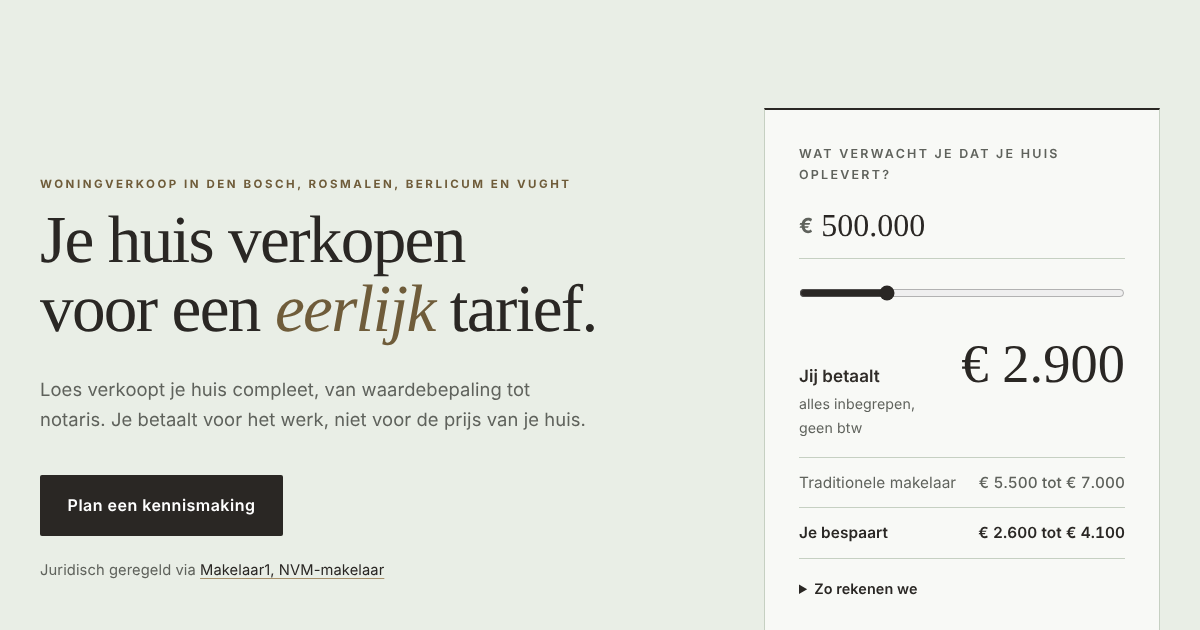
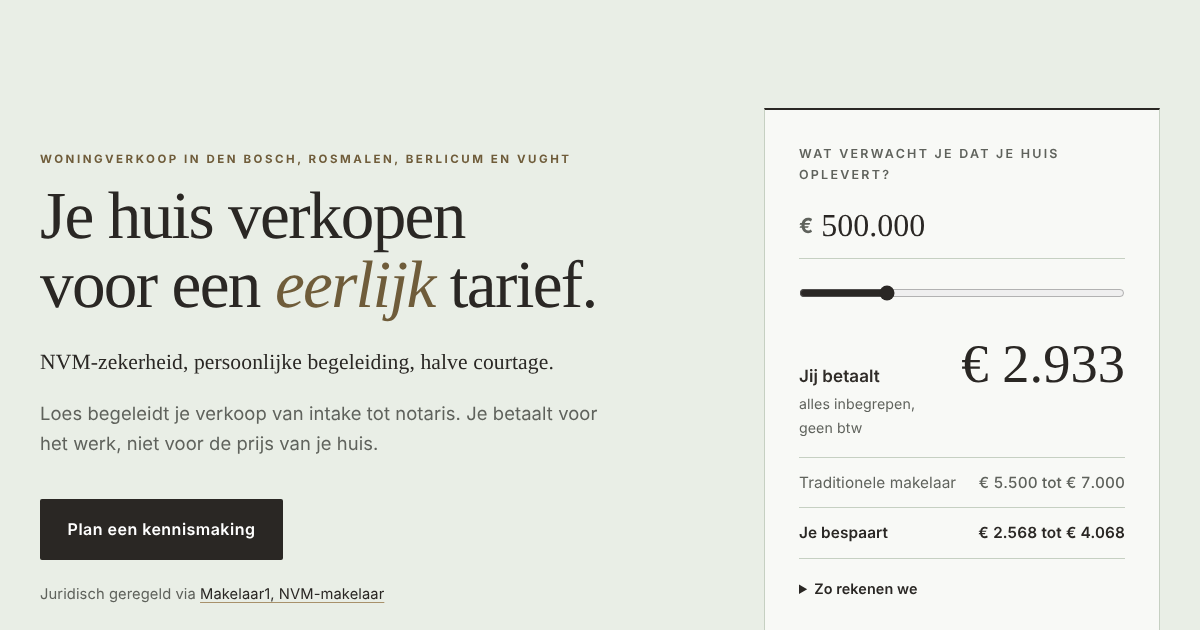
Kernboodschap: NVM-zekerheid, persoonlijke begeleiding, halve courtage

Changed region(s): [[0.0308, 0.2413, 0.4933, 0.7238], [0.0308, 0.754, 0.3392, 0.9651], [0.8942, 0.5429, 0.9558, 0.6032]]

diff --git a/index.html b/index.html
@@ -4,18 +4,18 @@
 <meta charset="utf-8">
 <meta name="viewport" content="width=device-width, initial-scale=1">
 <title>Huis verkopen in Den Bosch, Rosmalen, Berlicum en Vught | Mevrouw geen Makelaar</title>
-<meta name="description" content="Je huis verkopen in Den Bosch, Rosmalen, Berlicum en Vught zonder dure makelaar. Complete woningverkoop voor een eerlijk tarief. Bereken direct wat het jou kost.">
+<meta name="description" content="NVM-zekerheid, persoonlijke begeleiding, halve courtage. Je huis verkopen in Den Bosch, Rosmalen, Berlicum en Vught voor een eerlijk tarief. Bereken direct wat het jou kost.">
 <link rel="canonical" href="https://www.mevrouw-geen-makelaar.nl/">
 <meta property="og:type" content="website">
 <meta property="og:locale" content="nl_NL">
 <meta property="og:site_name" content="Mevrouw geen Makelaar">
 <meta property="og:title" content="Huis verkopen in Den Bosch, Rosmalen, Berlicum en Vught | Mevrouw geen Makelaar">
-<meta property="og:description" content="Je huis verkopen in Den Bosch, Rosmalen, Berlicum en Vught zonder dure makelaar. Complete woningverkoop voor een eerlijk tarief. Bereken direct wat het jou kost.">
+<meta property="og:description" content="NVM-zekerheid, persoonlijke begeleiding, halve courtage. Je huis verkopen in Den Bosch, Rosmalen, Berlicum en Vught voor een eerlijk tarief. Bereken direct wat het jou kost.">
 <meta property="og:url" content="https://www.mevrouw-geen-makelaar.nl/">
 <meta property="og:image" content="https://www.mevrouw-geen-makelaar.nl/og-image.png">
 <meta name="theme-color" content="#2a2724">
 <link rel="icon" href="/favicon.svg" type="image/svg+xml">
-<link rel="stylesheet" href="/styles.css?v=cce13743">
+<link rel="stylesheet" href="/styles.css?v=1b1984d0">
 <script type="application/ld+json">{"@context":"https://schema.org","@type":"LocalBusiness","name":"Mevrouw geen Makelaar","url":"https://www.mevrouw-geen-makelaar.nl","email":"loes@salesday.nl","description":"Persoonlijke woningverkoop in Den Bosch, Rosmalen, Berlicum en Vught tegen een transparante, lage prijs: (1% van de verkoopprijs min €865 kosten) gedeeld door 2, plus €865 vaste kosten.","areaServed":[{"@type":"City","name":"'s-Hertogenbosch"},{"@type":"City","name":"Rosmalen"},{"@type":"City","name":"Berlicum"},{"@type":"City","name":"Vught"}],"address":{"@type":"PostalAddress","addressLocality":"Rosmalen","addressCountry":"NL"},"founder":{"@type":"Person","name":"Loes"},"priceRange":"€"}</script>
 <script type="application/ld+json">{"@context":"https://schema.org","@type":"FAQPage","mainEntity":[{"@type":"Question","name":"Is Loes een makelaar?","acceptedAnswer":{"@type":"Answer","text":"Nee. Loes begeleidt de verkoop persoonlijk. Het makelaarsschap, de Funda-plaatsing en de koopovereenkomst lopen via Makelaar1, een NVM-makelaar uit Tilburg."}},{"@type":"Question","name":"Wat betaal ik?","acceptedAnswer":{"@type":"Answer","text":"De helft van (1% van de verkoopprijs min €865), plus €865 vaste kosten. Bij €500.000 is dat €2.933, alles inbegrepen. Er komt geen btw bij."}},{"@type":"Question","name":"Wat zit er in de vaste kosten?","acceptedAnswer":{"@type":"Answer","text":"De Funda-plaatsing via Makelaar1, de fotograaf en de brochures. Niet inbegrepen: energielabel, keuringen en notariskosten."}},{"@type":"Question","name":"Wie stelt de koopovereenkomst op?","acceptedAnswer":{"@type":"Answer","text":"Makelaar1, als NVM-makelaar. Zo is de juridische kant goed geregeld."}},{"@type":"Question","name":"Wie doet de bezichtigingen?","acceptedAnswer":{"@type":"Answer","text":"Loes, persoonlijk. Ook bij de onderhandeling is zij je aanspreekpunt; jij beslist over elk bod."}},{"@type":"Question","name":"Wat als ik na de intake toch niet wil verkopen?","acceptedAnswer":{"@type":"Answer","text":"Dat kan altijd. Na de intake is de opdracht gestart, dus vergoed je de gemaakte uren à [uurtarief], met een minimum van €300, plus al gemaakte kosten zoals fotograaf of drukwerk."}},{"@type":"Question","name":"In welke regio werkt Loes?","acceptedAnswer":{"@type":"Answer","text":"Den Bosch, Rosmalen, Berlicum, Vught en directe omgeving."}}]}</script>
 </head>
@@ -41,7 +41,8 @@
     <div class="hero-ed-text">
       <span class="eyebrow">Woningverkoop in Den Bosch, Rosmalen, Berlicum en Vught</span>
       <h1>Je huis verkopen<br>voor een <em>eerlijk</em> tarief.</h1>
-      <p class="lead">Loes verkoopt je huis compleet, van waardebepaling tot notaris. Je betaalt voor het werk, niet voor de prijs van je huis.</p>
+      <p class="trio">NVM-zekerheid, persoonlijke begeleiding, halve courtage.</p>
+      <p class="lead">Loes begeleidt je verkoop van intake tot notaris. Je betaalt voor het werk, niet voor de prijs van je huis.</p>
       <div class="btn-row">
         <a class="btn btn--primary" href="/contact">Plan een kennismaking</a>
       </div>

diff --git a/404.html b/404.html
@@ -15,7 +15,7 @@
 <meta property="og:image" content="https://www.mevrouw-geen-makelaar.nl/og-image.png">
 <meta name="theme-color" content="#2a2724">
 <link rel="icon" href="/favicon.svg" type="image/svg+xml">
-<link rel="stylesheet" href="/styles.css?v=cce13743">
+<link rel="stylesheet" href="/styles.css?v=1b1984d0">
 <script type="application/ld+json">{"@context":"https://schema.org","@type":"LocalBusiness","name":"Mevrouw geen Makelaar","url":"https://www.mevrouw-geen-makelaar.nl","email":"loes@salesday.nl","description":"Persoonlijke woningverkoop in Den Bosch, Rosmalen, Berlicum en Vught tegen een transparante, lage prijs: (1% van de verkoopprijs min €865 kosten) gedeeld door 2, plus €865 vaste kosten.","areaServed":[{"@type":"City","name":"'s-Hertogenbosch"},{"@type":"City","name":"Rosmalen"},{"@type":"City","name":"Berlicum"},{"@type":"City","name":"Vught"}],"address":{"@type":"PostalAddress","addressLocality":"Rosmalen","addressCountry":"NL"},"founder":{"@type":"Person","name":"Loes"},"priceRange":"€"}</script>
 </head>
 <body>

diff --git a/contact.html b/contact.html
@@ -15,7 +15,7 @@
 <meta property="og:image" content="https://www.mevrouw-geen-makelaar.nl/og-image.png">
 <meta name="theme-color" content="#2a2724">
 <link rel="icon" href="/favicon.svg" type="image/svg+xml">
-<link rel="stylesheet" href="/styles.css?v=cce13743">
+<link rel="stylesheet" href="/styles.css?v=1b1984d0">
 <script type="application/ld+json">{"@context":"https://schema.org","@type":"LocalBusiness","name":"Mevrouw geen Makelaar","url":"https://www.mevrouw-geen-makelaar.nl","email":"loes@salesday.nl","description":"Persoonlijke woningverkoop in Den Bosch, Rosmalen, Berlicum en Vught tegen een transparante, lage prijs: (1% van de verkoopprijs min €865 kosten) gedeeld door 2, plus €865 vaste kosten.","areaServed":[{"@type":"City","name":"'s-Hertogenbosch"},{"@type":"City","name":"Rosmalen"},{"@type":"City","name":"Berlicum"},{"@type":"City","name":"Vught"}],"address":{"@type":"PostalAddress","addressLocality":"Rosmalen","addressCountry":"NL"},"founder":{"@type":"Person","name":"Loes"},"priceRange":"€"}</script>
 </head>
 <body>

diff --git a/cookies.html b/cookies.html
@@ -15,7 +15,7 @@
 <meta property="og:image" content="https://www.mevrouw-geen-makelaar.nl/og-image.png">
 <meta name="theme-color" content="#2a2724">
 <link rel="icon" href="/favicon.svg" type="image/svg+xml">
-<link rel="stylesheet" href="/styles.css?v=cce13743">
+<link rel="stylesheet" href="/styles.css?v=1b1984d0">
 <script type="application/ld+json">{"@context":"https://schema.org","@type":"LocalBusiness","name":"Mevrouw geen Makelaar","url":"https://www.mevrouw-geen-makelaar.nl","email":"loes@salesday.nl","description":"Persoonlijke woningverkoop in Den Bosch, Rosmalen, Berlicum en Vught tegen een transparante, lage prijs: (1% van de verkoopprijs min €865 kosten) gedeeld door 2, plus €865 vaste kosten.","areaServed":[{"@type":"City","name":"'s-Hertogenbosch"},{"@type":"City","name":"Rosmalen"},{"@type":"City","name":"Berlicum"},{"@type":"City","name":"Vught"}],"address":{"@type":"PostalAddress","addressLocality":"Rosmalen","addressCountry":"NL"},"founder":{"@type":"Person","name":"Loes"},"priceRange":"€"}</script>
 </head>
 <body>

diff --git a/over-loes.html b/over-loes.html
@@ -15,7 +15,7 @@
 <meta property="og:image" content="https://www.mevrouw-geen-makelaar.nl/og-image.png">
 <meta name="theme-color" content="#2a2724">
 <link rel="icon" href="/favicon.svg" type="image/svg+xml">
-<link rel="stylesheet" href="/styles.css?v=cce13743">
+<link rel="stylesheet" href="/styles.css?v=1b1984d0">
 <script type="application/ld+json">{"@context":"https://schema.org","@type":"LocalBusiness","name":"Mevrouw geen Makelaar","url":"https://www.mevrouw-geen-makelaar.nl","email":"loes@salesday.nl","description":"Persoonlijke woningverkoop in Den Bosch, Rosmalen, Berlicum en Vught tegen een transparante, lage prijs: (1% van de verkoopprijs min €865 kosten) gedeeld door 2, plus €865 vaste kosten.","areaServed":[{"@type":"City","name":"'s-Hertogenbosch"},{"@type":"City","name":"Rosmalen"},{"@type":"City","name":"Berlicum"},{"@type":"City","name":"Vught"}],"address":{"@type":"PostalAddress","addressLocality":"Rosmalen","addressCountry":"NL"},"founder":{"@type":"Person","name":"Loes"},"priceRange":"€"}</script>
 </head>
 <body>

diff --git a/privacy.html b/privacy.html
@@ -15,7 +15,7 @@
 <meta property="og:image" content="https://www.mevrouw-geen-makelaar.nl/og-image.png">
 <meta name="theme-color" content="#2a2724">
 <link rel="icon" href="/favicon.svg" type="image/svg+xml">
-<link rel="stylesheet" href="/styles.css?v=cce13743">
+<link rel="stylesheet" href="/styles.css?v=1b1984d0">
 <script type="application/ld+json">{"@context":"https://schema.org","@type":"LocalBusiness","name":"Mevrouw geen Makelaar","url":"https://www.mevrouw-geen-makelaar.nl","email":"loes@salesday.nl","description":"Persoonlijke woningverkoop in Den Bosch, Rosmalen, Berlicum en Vught tegen een transparante, lage prijs: (1% van de verkoopprijs min €865 kosten) gedeeld door 2, plus €865 vaste kosten.","areaServed":[{"@type":"City","name":"'s-Hertogenbosch"},{"@type":"City","name":"Rosmalen"},{"@type":"City","name":"Berlicum"},{"@type":"City","name":"Vught"}],"address":{"@type":"PostalAddress","addressLocality":"Rosmalen","addressCountry":"NL"},"founder":{"@type":"Person","name":"Loes"},"priceRange":"€"}</script>
 </head>
 <body>

diff --git a/samenwerking.html b/samenwerking.html
@@ -15,7 +15,7 @@
 <meta property="og:image" content="https://www.mevrouw-geen-makelaar.nl/og-image.png">
 <meta name="theme-color" content="#2a2724">
 <link rel="icon" href="/favicon.svg" type="image/svg+xml">
-<link rel="stylesheet" href="/styles.css?v=cce13743">
+<link rel="stylesheet" href="/styles.css?v=1b1984d0">
 <script type="application/ld+json">{"@context":"https://schema.org","@type":"LocalBusiness","name":"Mevrouw geen Makelaar","url":"https://www.mevrouw-geen-makelaar.nl","email":"loes@salesday.nl","description":"Persoonlijke woningverkoop in Den Bosch, Rosmalen, Berlicum en Vught tegen een transparante, lage prijs: (1% van de verkoopprijs min €865 kosten) gedeeld door 2, plus €865 vaste kosten.","areaServed":[{"@type":"City","name":"'s-Hertogenbosch"},{"@type":"City","name":"Rosmalen"},{"@type":"City","name":"Berlicum"},{"@type":"City","name":"Vught"}],"address":{"@type":"PostalAddress","addressLocality":"Rosmalen","addressCountry":"NL"},"founder":{"@type":"Person","name":"Loes"},"priceRange":"€"}</script>
 </head>
 <body>

diff --git a/tarieven.html b/tarieven.html
@@ -15,7 +15,7 @@
 <meta property="og:image" content="https://www.mevrouw-geen-makelaar.nl/og-image.png">
 <meta name="theme-color" content="#2a2724">
 <link rel="icon" href="/favicon.svg" type="image/svg+xml">
-<link rel="stylesheet" href="/styles.css?v=cce13743">
+<link rel="stylesheet" href="/styles.css?v=1b1984d0">
 <script type="application/ld+json">{"@context":"https://schema.org","@type":"LocalBusiness","name":"Mevrouw geen Makelaar","url":"https://www.mevrouw-geen-makelaar.nl","email":"loes@salesday.nl","description":"Persoonlijke woningverkoop in Den Bosch, Rosmalen, Berlicum en Vught tegen een transparante, lage prijs: (1% van de verkoopprijs min €865 kosten) gedeeld door 2, plus €865 vaste kosten.","areaServed":[{"@type":"City","name":"'s-Hertogenbosch"},{"@type":"City","name":"Rosmalen"},{"@type":"City","name":"Berlicum"},{"@type":"City","name":"Vught"}],"address":{"@type":"PostalAddress","addressLocality":"Rosmalen","addressCountry":"NL"},"founder":{"@type":"Person","name":"Loes"},"priceRange":"€"}</script>
 </head>
 <body>

diff --git a/verkocht.html b/verkocht.html
@@ -15,7 +15,7 @@
 <meta property="og:image" content="https://www.mevrouw-geen-makelaar.nl/og-image.png">
 <meta name="theme-color" content="#2a2724">
 <link rel="icon" href="/favicon.svg" type="image/svg+xml">
-<link rel="stylesheet" href="/styles.css?v=cce13743">
+<link rel="stylesheet" href="/styles.css?v=1b1984d0">
 <script type="application/ld+json">{"@context":"https://schema.org","@type":"LocalBusiness","name":"Mevrouw geen Makelaar","url":"https://www.mevrouw-geen-makelaar.nl","email":"loes@salesday.nl","description":"Persoonlijke woningverkoop in Den Bosch, Rosmalen, Berlicum en Vught tegen een transparante, lage prijs: (1% van de verkoopprijs min €865 kosten) gedeeld door 2, plus €865 vaste kosten.","areaServed":[{"@type":"City","name":"'s-Hertogenbosch"},{"@type":"City","name":"Rosmalen"},{"@type":"City","name":"Berlicum"},{"@type":"City","name":"Vught"}],"address":{"@type":"PostalAddress","addressLocality":"Rosmalen","addressCountry":"NL"},"founder":{"@type":"Person","name":"Loes"},"priceRange":"€"}</script>
 </head>
 <body>

diff --git a/voorwaarden.html b/voorwaarden.html
@@ -15,7 +15,7 @@
 <meta property="og:image" content="https://www.mevrouw-geen-makelaar.nl/og-image.png">
 <meta name="theme-color" content="#2a2724">
 <link rel="icon" href="/favicon.svg" type="image/svg+xml">
-<link rel="stylesheet" href="/styles.css?v=cce13743">
+<link rel="stylesheet" href="/styles.css?v=1b1984d0">
 <script type="application/ld+json">{"@context":"https://schema.org","@type":"LocalBusiness","name":"Mevrouw geen Makelaar","url":"https://www.mevrouw-geen-makelaar.nl","email":"loes@salesday.nl","description":"Persoonlijke woningverkoop in Den Bosch, Rosmalen, Berlicum en Vught tegen een transparante, lage prijs: (1% van de verkoopprijs min €865 kosten) gedeeld door 2, plus €865 vaste kosten.","areaServed":[{"@type":"City","name":"'s-Hertogenbosch"},{"@type":"City","name":"Rosmalen"},{"@type":"City","name":"Berlicum"},{"@type":"City","name":"Vught"}],"address":{"@type":"PostalAddress","addressLocality":"Rosmalen","addressCountry":"NL"},"founder":{"@type":"Person","name":"Loes"},"priceRange":"€"}</script>
 </head>
 <body>

diff --git a/werkwijze.html b/werkwijze.html
@@ -15,7 +15,7 @@
 <meta property="og:image" content="https://www.mevrouw-geen-makelaar.nl/og-image.png">
 <meta name="theme-color" content="#2a2724">
 <link rel="icon" href="/favicon.svg" type="image/svg+xml">
-<link rel="stylesheet" href="/styles.css?v=cce13743">
+<link rel="stylesheet" href="/styles.css?v=1b1984d0">
 <script type="application/ld+json">{"@context":"https://schema.org","@type":"LocalBusiness","name":"Mevrouw geen Makelaar","url":"https://www.mevrouw-geen-makelaar.nl","email":"loes@salesday.nl","description":"Persoonlijke woningverkoop in Den Bosch, Rosmalen, Berlicum en Vught tegen een transparante, lage prijs: (1% van de verkoopprijs min €865 kosten) gedeeld door 2, plus €865 vaste kosten.","areaServed":[{"@type":"City","name":"'s-Hertogenbosch"},{"@type":"City","name":"Rosmalen"},{"@type":"City","name":"Berlicum"},{"@type":"City","name":"Vught"}],"address":{"@type":"PostalAddress","addressLocality":"Rosmalen","addressCountry":"NL"},"founder":{"@type":"Person","name":"Loes"},"priceRange":"€"}</script>
 </head>
 <body>

diff --git a/styles.css b/styles.css
@@ -607,3 +607,4 @@ body { background: var(--sand-50); }
 .acc-more { margin: 22px 0 0; }
 .partner-note { margin-top: 40px; color: var(--muted); max-width: 680px; }
 .about--text { grid-template-columns: 1fr; max-width: 760px; }
+.trio { font-family: var(--serif); font-size: clamp(1.15rem, 1.8vw, 1.4rem); color: var(--teal-900); margin: -.2em 0 .8em; letter-spacing: .005em; }
